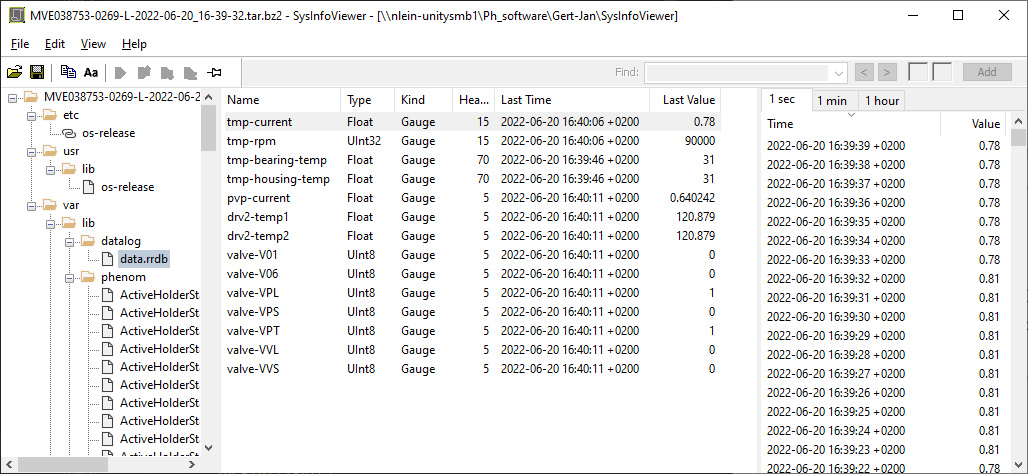
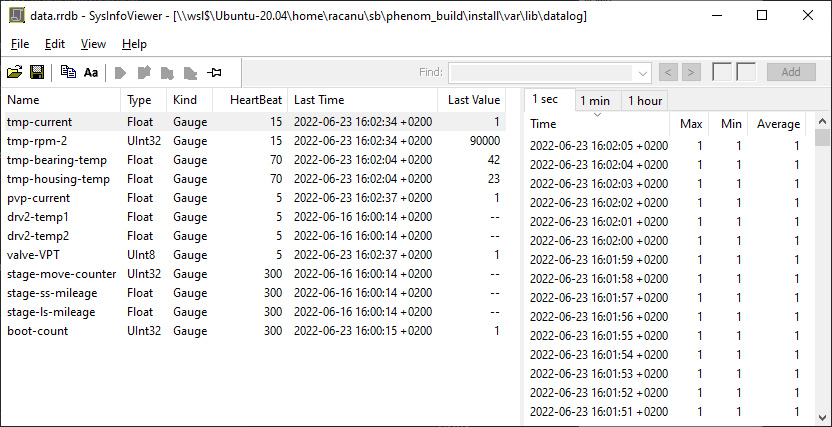
More changes to long term logging

Changed region(s): [[0.0, 0.0, 1.0, 1.0], [0.9688, 0.0, 1.0, 0.0609], [0.9062, 0.0, 0.9375, 0.0609]]

diff --git a/long-term-logging/ltl.tex b/long-term-logging/ltl.tex
@@ -1,5 +1,6 @@
 \documentclass[t, 9pt, aspectratio=169]{beamer}
 \usetheme{phw}
+\usepackage{multicol}
 
 \title{Long Time Logging}
 \subtitle{}
@@ -12,15 +13,16 @@
         \titlepage
     \end{frame}
 
-    \begin{frame}
-        \frametitle{Outline}
-        \tableofcontents
+    \begin{frame}{Outline}
+        \begin{multicols}{2}
+            \tableofcontents
+        \end{multicols}
     \end{frame}
 
     \section{Round Robin Database}
     \subsection{Data Collection and Storage}
 
-    \begin{frame}{Round Robin Database}{Data Collection and Storage}
+    \begin{frame}{\secname}{\subsecname}
         \begin{itemize}
             \item Collects data from multiple \highlight{data sources}
             \begin{itemize}
@@ -30,7 +32,7 @@
             \begin{itemize}
                 \item archives are defined at database level
                 \item each archive defines a data sample frequency (rate) e.g. one value every second, every minute, every hour
-                \item also, the last value\footnotemark of each data source is available
+                \item the last value\footnotemark of each data source is available as well
             \end{itemize}
             \footnotetext{not same as last stored value}
         \end{itemize}
@@ -41,7 +43,7 @@
 
     \subsection{Aggregation/Resampling}
 
-    \begin{frame}{Round Robin Database}{Aggregation/Resampling}
+    \begin{frame}{\secname}{\subsecname}
         \begin{figure}
             \includegraphics[scale=0.35]{rrdb-structure.jpg}
         \end{figure}
@@ -54,7 +56,7 @@
 
     \subsection{Trivia}
 
-    \begin{frame}{Round Robin Database}{Trivia}
+    \begin{frame}{\secname}{\subsecname}
         The current database is setup with 3 archives containing data samples for
         \begin{itemize}
             \item every second for 72 hours
@@ -67,36 +69,36 @@
     \section{Data Aggregation}
     \subsection{Supersampling}
 
-    \begin{frame}{Data Aggregation}{Supersampling}
-        \vspace{-1cm}
+    \begin{frame}{\secname}{\subsecname}
+        \vspace{-0.5cm}
         \begin{figure}
-            \hspace*{-1cm}\includegraphics[scale=0.5]{collected-data-5s.jpg}
-            \hspace*{-1cm}\includegraphics[scale=0.5]{aggregate-max-1s.jpg}
+            \includegraphics[scale=0.5]{collected-data-5s.jpg}
+            \includegraphics[scale=0.5]{aggregate-max-1s.jpg}
         \end{figure}
     \end{frame}
 
     \subsection{Subsampling}
 
-    \begin{frame}{Data Aggregation}{Subsampling}
-        \vspace{-1cm}
+    \begin{frame}{\secname}{\subsecname}
+        \vspace{-0.5cm}
         \begin{figure}
-            \hspace*{-1cm}\includegraphics[scale=0.5]{collected-data-5s.jpg}
-            \hspace*{-1cm}\includegraphics[scale=0.5]{aggregate-max-1min.jpg}
+            \includegraphics[scale=0.5]{collected-data-5s.jpg}
+            \includegraphics[scale=0.5]{aggregate-max-1min.jpg}
         \end{figure}
     \end{frame}
 
-    \begin{frame}{Data Aggregation}{Subsampling}
-        \vspace{-1cm}
+    \begin{frame}{\secname}{\subsecname}
+        \vspace{-0.5cm}
         \begin{figure}
-            \hspace*{-1cm}\includegraphics[scale=0.5]{collected-data-5s.jpg}
-            \hspace*{-1cm}\includegraphics[scale=0.5]{aggregate-avg-1min.jpg}
+            \hspace*{0cm}\includegraphics[scale=0.5]{collected-data-5s.jpg}
+            \hspace*{0cm}\includegraphics[scale=0.5]{aggregate-avg-1min.jpg}
         \end{figure}
     \end{frame}
 
     \section{Round Robin Database}
     \subsection{Limitations}
     
-    \begin{frame}{Data Aggregation}{Limitations}
+    \begin{frame}{\secname}{\subsecname}
         \begin{itemize}
             \item Fixed size database\footnotemark, long term history of value evolution
             \item Total size (hence number of data sources and aggregates) to be kept in check
@@ -109,7 +111,7 @@
     \section{Operational Values}
     \subsection{Which Values to Log?}
     
-    \begin{frame}{Operational Values}{Which Values to Log?}
+    \begin{frame}{\secname}{\subsecname}
         \begin{itemize}
             \item Define a list or a method to identify the values (and aggregations) to be recorded in the long term database
             \begin{itemize}
@@ -124,16 +126,19 @@
         \end{itemize}
     \end{frame}
 
-    \begin{frame}{Operational Values}{In TestUI}
-        \vspace*{-1cm}
+    \subsection{In TestUI}
+
+    \begin{frame}{\secname}{\subsecname}
+        \vspace*{-0.5cm}
         \begin{figure}
             \hspace*{-0.8cm}\includegraphics[scale=0.37]{tad-accessors-xl2.jpg}
         \end{figure}
         Not all values can or should be logged.
     \end{frame}
 
-    \begin{frame}{Operational Values}{In PhenomServiceTool}
-        \vspace*{-1cm}
+    \subsection{In PhenomServiceTool}
+
+    \begin{frame}{\secname}{\subsecname}
         \begin{figure}
             \hspace*{0.5cm}\includegraphics[scale=0.47]{tad-accessors-service-tool.jpg}
         \end{figure}
@@ -141,7 +146,7 @@
 
     \subsection{Plan}
 
-    \begin{frame}{Operational Values}{Plan}
+    \begin{frame}{\secname}{\subsecname}
         \begin{itemize}
             \item Add all "sensible" TAD values and the two already requested (Stigmation and SourceTilt)
             \item Decide on how to handle totals and counters
@@ -151,9 +156,9 @@
     \end{frame}
 
     \begin{frame}{Operational Values}{In SysInfoViewer}
-        \vspace*{-0.8cm}
+        \vspace*{-0.5cm}
         \begin{figure}
-            \hspace*{-0.7cm}\includegraphics[scale=0.5]{rrdb-in-sysinfoviewer.jpg}
+            \includegraphics[scale=0.6]{rrdb-in-sysinfoviewer.jpg}
         \end{figure}
     \end{frame}
 
